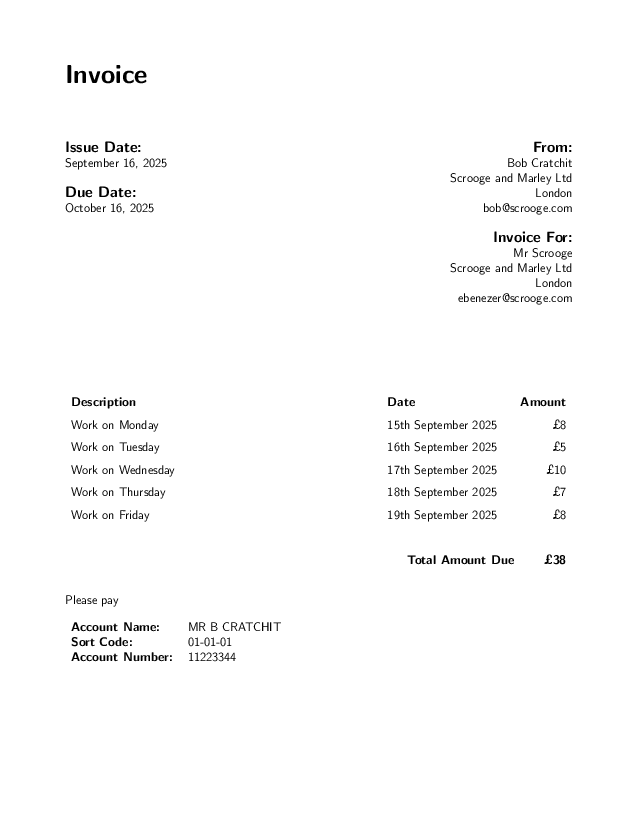
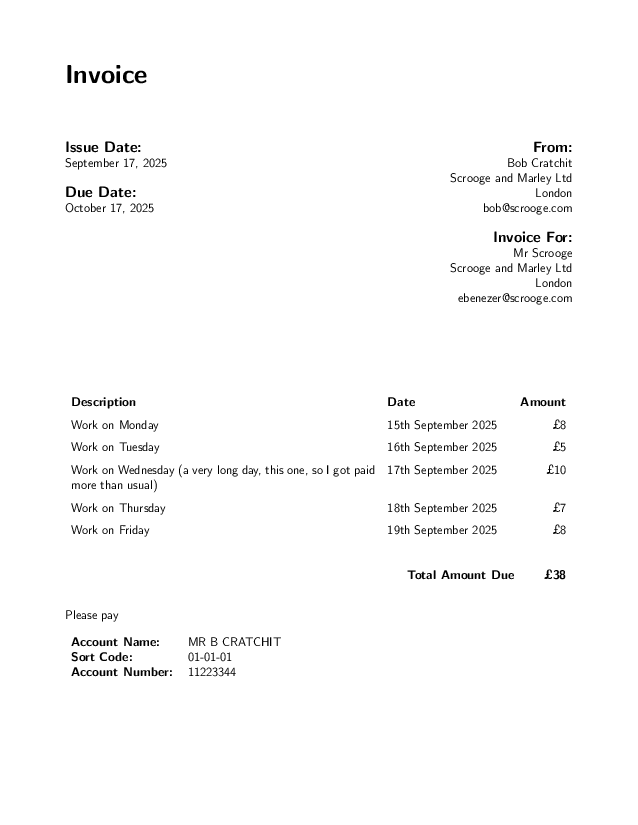
Update docs - include example of long description

diff --git a/example.tex b/example.tex
@@ -16,7 +16,7 @@
   }{
     \gig{Work on Monday}{15th September 2025}{8}%
     \gig{Work on Tuesday}{16th September 2025}{5}%
-    \gig{Work on Wednesday}{17th September 2025}{10}%
+    \gig{Work on Wednesday (a very long day, this one, so I got paid more than usual)}{17th September 2025}{10}%
     \gig{Work on Thursday}{18th September 2025}{7}%
     \gig{Work on Friday}{19th September 2025}{8}%
   }{

diff --git a/README.md b/README.md
@@ -39,7 +39,7 @@ All fields are plain text.
   }{
     \gig{Work on Monday}{15th September 2025}{8}%
     \gig{Work on Tuesday}{16th September 2025}{5}%
-    \gig{Work on Wednesday}{17th September 2025}{10}%
+    \gig{Work on Wednesday (a very long day, this one, so I got paid more than usual)}{17th September 2025}{10}%
     \gig{Work on Thursday}{18th September 2025}{7}%
     \gig{Work on Friday}{19th September 2025}{8}%
   }{
